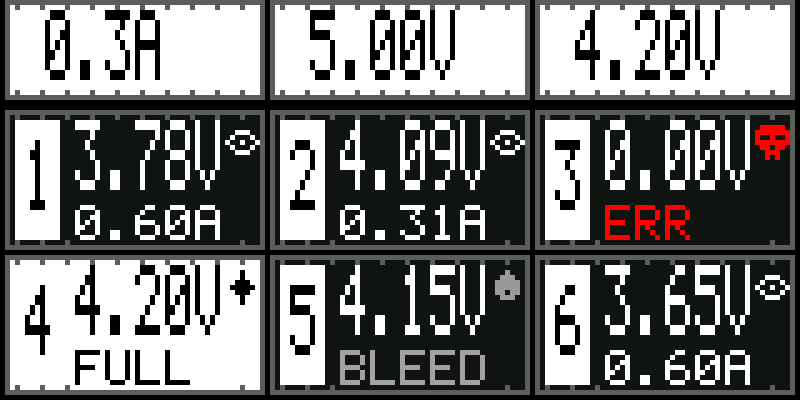
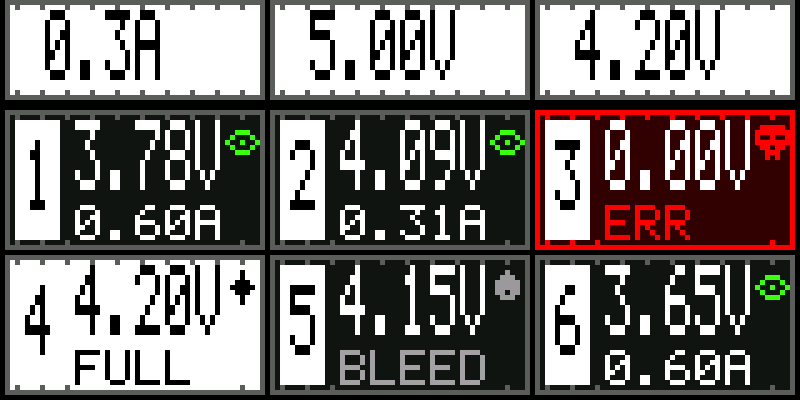
ROT: green charging eyes, static burst when a port finishes, blood cell with red thorns on fault, skull eyes light up at boot
Claude-Session: https://claude.ai/code/session_013pnveF3YZMcge2pAwqWVgQ

Changed region(s): [[0.5938, 0.27, 1.0, 0.63], [0.9375, 0.69, 1.0, 0.75], [0.2812, 0.33, 0.3438, 0.39]]

diff --git a/src/ui.c b/src/ui.c
@@ -22,7 +22,10 @@ static char    XD shown[NELEM][8];
 static uint16_t XD shown_fg[NELEM];
 static uint16_t XD box_bg[NBOX];
 static uint8_t XD next_el;
-static uint16_t XD anim;                        /* counts main-screen steps (one per control pass): the ROT eye animation clock */
+static uint16_t XD anim;
+static uint8_t XD last_st[NPORTS];               /* ROT: each port's state at its last visit, 0xFF = not known yet */
+static uint8_t XD burst[NPORTS];                 /* ROT: visits of static left on a cell that just went full */
+#define BURST_VISITS 8                           /* one visit per port per 21 control passes: about 0.75 s */                        /* counts main-screen steps (one per control pass): the ROT eye animation clock */
 
 static uint8_t box_x(uint8_t i)  { return UI_BOX_X0 + i * UI_BOX_PITCH; }
 static uint8_t cell_y(uint8_t p) { return UI_CELL_Y0 + (p / 3) * UI_CELL_PITCH_Y; }
@@ -120,9 +123,16 @@ void ui_splash_frame(uint8_t n)
         if (n < 4 && (s & 0x300) == 0) continue;                       /* and some missing while the signal is weak */
         lcd_bitmap((uint8_t)(lx + off), (uint8_t)(12 + j), LOGO_W, 1, logo_bits + j * LOGO_STRIDE, UI_C_NEON, th(R_BG));
     }
-    if (n == 6) {
-        lcd_bitmap((uint8_t)((lx - sw) / 2), (uint8_t)(34 - sh / 2), sw, sh, SPR_BITS(SPR_SKULL), th(R_TEXT), th(R_BG));
-        lcd_bitmap((uint8_t)(lx + LOGO_W + (LCD_PX_W - lx - LOGO_W - sw) / 2), (uint8_t)(34 - sh / 2), sw, sh, SPR_BITS(SPR_SKULL), th(R_TEXT), th(R_BG));
+    if (n == 6 || n == 8) {
+        uint8_t k, sx[2], sy = (uint8_t)(34 - sh / 2);
+        sx[0] = (uint8_t)((lx - sw) / 2); sx[1] = (uint8_t)(lx + LOGO_W + (LCD_PX_W - lx - LOGO_W - sw) / 2);
+        for (k = 0; k < 2; k++) {
+            if (n == 6) lcd_bitmap(sx[k], sy, sw, sh, SPR_BITS(SPR_SKULL), th(R_TEXT), th(R_BG));
+            else {                                    /* the pupils (sprite row 8, columns 4 and 12) light up as green crosses */
+                lcd_fill((uint8_t)(sx[k] + 3), (uint8_t)(sy + 8), 3, 1, UI_C_NEON); lcd_fill((uint8_t)(sx[k] + 4), (uint8_t)(sy + 7), 1, 3, UI_C_NEON);
+                lcd_fill((uint8_t)(sx[k] + 11), (uint8_t)(sy + 8), 3, 1, UI_C_NEON); lcd_fill((uint8_t)(sx[k] + 12), (uint8_t)(sy + 7), 1, 3, UI_C_NEON);
+            }
+        }
     }
 }
 
@@ -212,7 +222,7 @@ static void box_draw(uint8_t b, uint16_t bg)
     lcd_fill(x + UI_BADGE_X, y + 2, UI_BADGE_W, UI_CELL_H - 4, th(R_BADGE0 + p));
     d[0] = (char)('1' + p); d[1] = 0;
     lcd_text(x + UI_BADGE_X + 2, y + 6, d, 1, 2, th(R_BG), th(R_BADGE0 + p));
-    if (ROT) border(x, y, UI_BOX_W, UI_CELL_H, th(R_DIM));
+    if (ROT) border(x, y, UI_BOX_W, UI_CELL_H, bg == UI_C_BLOOD ? th(R_BAD) : th(R_DIM));
     for (k = 0; k < 3; k++) shown[3 + p * 3 + k][0] = 0;
 }
 
@@ -223,6 +233,7 @@ void ui_main_init(void)
     uint8_t b;
     lcd_fill(0, 0, LCD_PX_W, LCD_PX_H, th(R_BG));
     for (b = 0; b < NBOX; b++) box_draw(b, th(R_BOX));
+    for (b = 0; b < NPORTS; b++) { last_st[b] = 0xFF; burst[b] = 0; }
     next_el = 0;
 }
 
@@ -291,7 +302,19 @@ static void element(const ui_state_t *s, uint8_t e) REENT
     x = box_x(p % 3); y = cell_y(p);
     st = s->state[p]; off = s->set[p] == PV_OFF;
     full = !s->ps && st == PS_FULL;                  /* a full port's cell is tinted, so it shows from across the room */
-    bg = full ? th(R_FULL) : th(R_BOX);
+    bg = full ? th(R_FULL) : (ROT && !s->ps && st == PS_FAULT) ? UI_C_BLOOD : th(R_BOX);
+    if (ROT && !s->ps) {
+        /* a port that has just gone full dissolves into static for a moment, then is stamped white (the box is repainted) */
+        if (part == 0) {
+            if (st == PS_FULL && last_st[p] != 0xFF && last_st[p] != PS_FULL) burst[p] = BURST_VISITS;
+            last_st[p] = st;
+            if (burst[p]) {
+                lcd_noise((uint8_t)(x + 1), (uint8_t)(y + 2), UI_BOX_W - 2, UI_CELL_H - 4, (uint16_t)(anim * 7u + p));
+                if (--burst[p] == 0) box_draw(3 + p, bg);
+                return;
+            }
+        } else if (burst[p]) return;
+    }
     box(3 + p, bg);
     if (s->ps) {                                     /* port settings: the value big, what kind of value small, a frame round the selection */
         uint8_t edit = s->ps == 2 && p == s->sel;

diff --git a/src/theme.c b/src/theme.c
@@ -20,12 +20,12 @@ static const CODE palette_t PAL[TH_COUNT] = {
     { { 0x0000, 0x3186, 0xFFFF, 0xFFE0, 0xFFFF, 0xBDF7, 0xD800, 0xFE40, 0x07E0, 0xF800, 0x07FF, 0x07E0, 0x0000, 0xFFE0 },
       { 0xF800, 0x07E0, 0x033F, 0xFFE0, 0xF81F, 0x07FF },
       { 0x3186, 0xFFE0, 0xF800, 0xFE40, 0x0000, 0x033F, 0xF81F } },
-    /* ROT: ink on black, SYMBIOZE.  White does the talking, red only for trouble; running inverts the header, a full cell is
+    /* ROT: ink on black, SYMBIOZE.  White does the talking, neon green is alive (charging eyes), red only for trouble; running inverts the header, a full cell is
      * stamped white.  The UI also draws this theme differently: thorned borders, eye / skull icons for the port states, poked
      * (dotted) big text and a static splash (ui.c, lcd.c).  Every state icon has its own grey so a change of icon is a change of colour. */
     { { 0x0000, 0x10A2, 0xFFFF, 0xFFFF, 0xFFFF, 0x5AEB, 0xFFFF, 0xC618, 0xFFFF, 0xF800, 0xA514, 0xFFFF, 0x0000, 0xFFFF },
       { 0xFFFF, 0xFFFF, 0xFFFF, 0xFFFF, 0xFFFF, 0xFFFF },
-      { 0x7BEF, 0x8410, 0xFFFF, 0xA534, 0x0000, 0x9CD3, 0xF800 } }
+      { 0x7BEF, 0x8410, 0x3FE2, 0xA534, 0x0000, 0x9CD3, 0xF800 } }
 };
 
 static const char *const NAME[TH_COUNT] = { "CLASSIC", "CALM", "AMBER", "HIGH CONTRAST", "ROT" };

diff --git a/tools/render_screens.c b/tools/render_screens.c
@@ -219,6 +219,9 @@ static void rot_screens(void)
             draw_main(&a);
             for (k = 0; k < 48; k++) {                 /* 64 control passes (~0.3 s) per frame */
                 unsigned i;
+                if (k == 14) { a.state[5] = PS_FULL; a.v[5] = a.v[3]; a.i[5] = 0; }      /* port 6 finishes: static burst */
+                if (k == 30) { a.state[1] = PS_FAULT; }                                  /* port 2 faults: blood cell, blinking skull */
+                a.blink = (k / 3) & 1;
                 for (i = 0; i < 64; i++) ui_main_step(&a);
                 snprintf(nm, sizeof nm, "anim_main_%02u", k); save(nm);
             }

diff --git a/src/layout.h b/src/layout.h
@@ -39,7 +39,8 @@
 #define UI_C_INFO       0x07FF
 #define UI_C_FULL       0x0400   /* the cell of a full port, and the text and dot on it */
 #define UI_C_FULLTX     0xFFFF
-#define UI_C_NEON       0x3FE2   /* ROT: the SYMBIOZE wordmark, neon green (#39FF14) */
+#define UI_C_NEON       0x3FE2   /* ROT: the SYMBIOZE wordmark and the skulls' eyes, neon green (#39FF14) */
+#define UI_C_BLOOD      0x3000   /* ROT: the cell of a port in fault */
 /* per-port state dot, index = PS_* (idle probe charge rest full bleed fault) */
 #define UI_C_DOT        { 0x2104, 0xFFE0, 0xF800, 0xFD20, 0xFFFF, 0x041F, 0xF81F }
 #define UI_DOT_X        44
